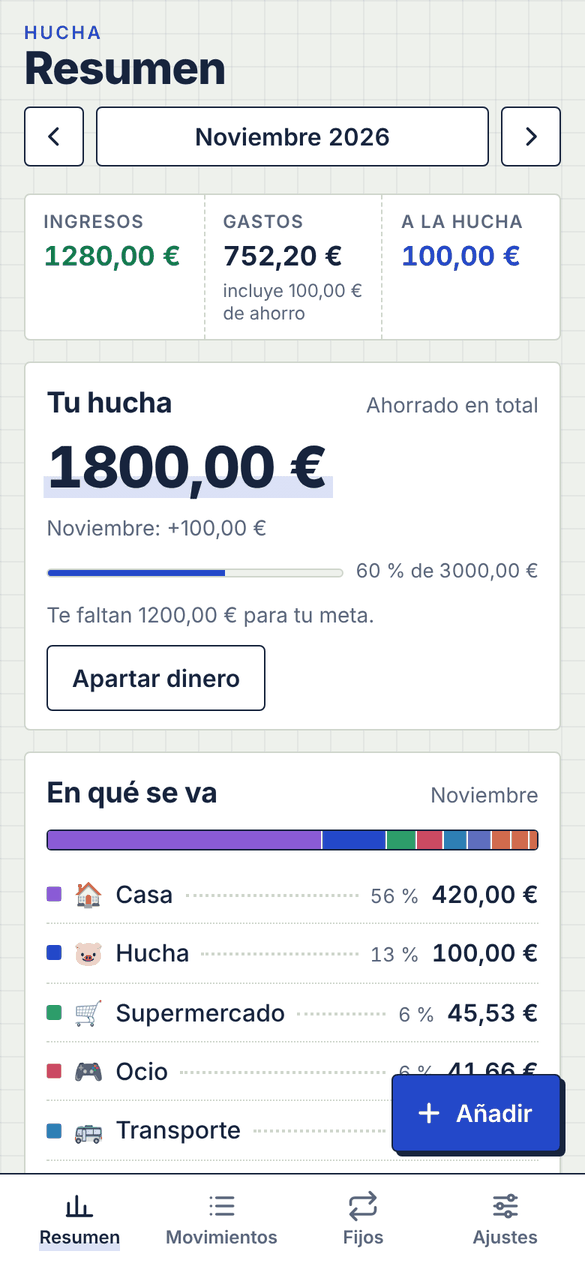
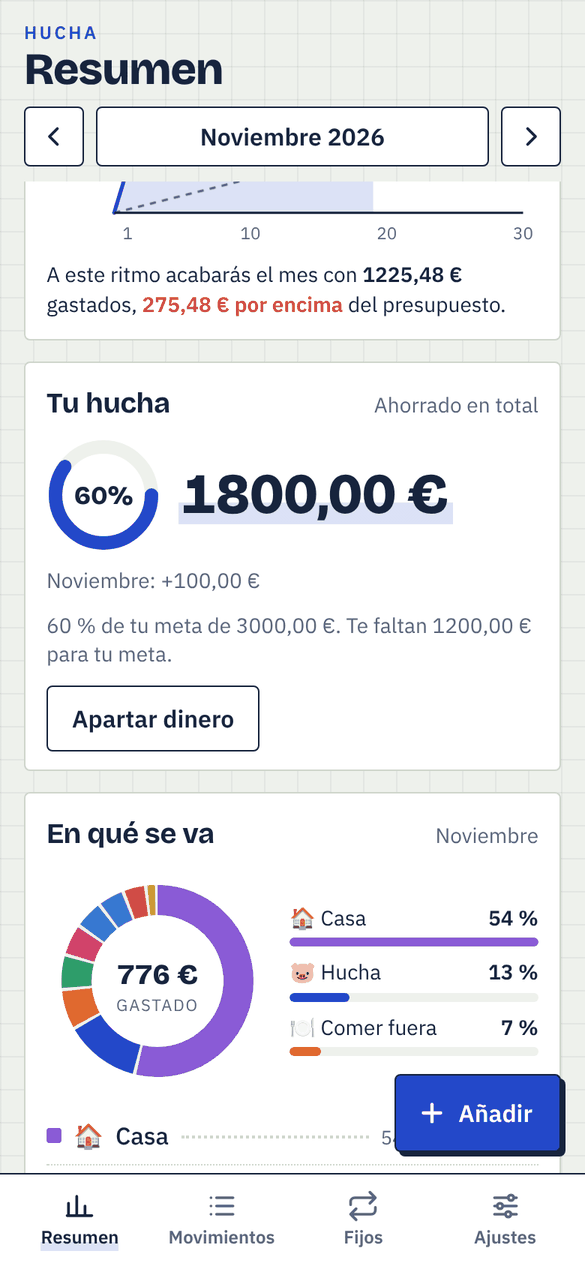
README: descarga para Android, gráficos nuevos y capturas con las fuentes reales
Claude-Session: https://claude.ai/code/session_01EqoCPkjg5r8F7tMW72F4wB

diff --git a/README.md b/README.md
@@ -8,12 +8,12 @@
 
 Gratis · Sin cuentas ni registros · Tus datos no salen de tu móvil · Funciona sin conexión
 
-### [👉 Abrir Hucha](https://jesuscg12.github.io/Hucha/)
+### [🤖 Descargar para Android (APK)](https://github.com/JesusCG12/Hucha/releases/latest/download/Hucha.apk) &nbsp;·&nbsp; [🍎 Abrir en iPhone o en el navegador](https://jesuscg12.github.io/Hucha/)
 
 <br>
 
 <img src="docs/capturas/resumen.png" alt="Pantalla de resumen" width="240">&nbsp;&nbsp;
-<img src="docs/capturas/movimientos.png" alt="Lista de movimientos" width="240">&nbsp;&nbsp;
+<img src="docs/capturas/graficos.png" alt="Gráfico del ritmo del mes" width="240">&nbsp;&nbsp;
 <img src="docs/capturas/resumen-oscuro.png" alt="Resumen en modo oscuro" width="240">
 
 </div>
@@ -29,27 +29,36 @@ Gratis · Sin cuentas ni registros · Tus datos no salen de tu móvil · Funcion
 | 🔁 **Gastos fijos y suscripciones** | Alquiler, Spotify, el coche, la nómina… Los apuntas una vez y se añaden solos cada mes el día que toca. Eliges si duran siempre o solo unos meses. |
 | 🔮 **Ver los próximos meses** | Los fijos que aún no han llegado salen como *previstos*, así sabes de antemano lo que te va a quedar. |
 | 🐷 **Hucha de ahorro** | Apartas dinero cuando quieras (o cada mes, como fijo) y ves cuánto llevas en total y lo que te falta para tu meta. Lo que apartas se resta de lo disponible. |
-| 📊 **Saber en qué se va** | Reparto por categorías, límites por categoría (te avisa si te pasas) y gráfico de los últimos seis meses. |
+| 📈 **Ritmo del mes** | Un gráfico con lo que llevas gastado día a día frente al ritmo ideal, y una previsión de cómo acabarás el mes si sigues así. |
+| 🍩 **Saber en qué se va** | Donut con el reparto por categorías, límites por categoría (te avisa si te pasas) y barras de los últimos seis meses. |
 | 🌙 **Modo oscuro** | Se pone solo si tu móvil lo usa. |
 
 ---
 
 ## 📲 Instalarla en el móvil
 
-Hucha es una web que se instala como una app: icono en la pantalla de inicio, pantalla completa y funciona sin conexión. No hace falta App Store.
+### 🤖 Android: app (APK)
 
-### iPhone
+1. Desde el móvil, descarga **[Hucha.apk](https://github.com/JesusCG12/Hucha/releases/latest/download/Hucha.apk)**.
+2. Ábrelo desde la notificación de descarga o desde **Archivos → Descargas**.
+3. Si Android te avisa de que no permite instalar apps de ese origen, pulsa **Ajustes**, activa **Permitir de esta fuente** y vuelve atrás.
+4. Pulsa **Instalar**. Si Play Protect dice que es una app desconocida, elige **Instalar de todas formas** (es normal en apps que no vienen de Google Play).
+
+Funciona sin conexión y no pide ningún permiso. Necesita Android 10 o posterior.
+
+> [!NOTE]
+> **Para actualizar**, descarga el APK nuevo con el mismo enlace e instálalo encima: tus datos se mantienen. Las versiones están en [Releases](https://github.com/JesusCG12/Hucha/releases).
+
+### 🍎 iPhone (y cualquier navegador)
+
+En iPhone, Hucha es una web que se instala como una app: icono en la pantalla de inicio, pantalla completa y funciona sin conexión. No hace falta App Store.
 
 1. Abre **[jesuscg12.github.io/Hucha](https://jesuscg12.github.io/Hucha/)** en **Safari**.
 2. Pulsa el botón **Compartir** (el cuadrado con la flecha hacia arriba).
 3. Baja y elige **Añadir a pantalla de inicio** → **Añadir**.
 4. Ábrela siempre desde el icono 🐷.
 
-### Android
-
-1. Abre **[jesuscg12.github.io/Hucha](https://jesuscg12.github.io/Hucha/)** en **Chrome**.
-2. Pulsa el menú **⋮** (arriba a la derecha).
-3. Elige **Instalar app** o **Añadir a pantalla de inicio**.
+¿Prefieres no instalar el APK en Android? También puedes abrir la web en **Chrome** y usar **⋮ → Instalar app**.
 
 > [!TIP]
 > También puedes usarla en el ordenador, en cualquier navegador. Pero ojo: cada dispositivo guarda sus propios datos (mira [Tus datos](#-tus-datos)).
@@ -75,7 +84,7 @@ Al abrirla por primera vez verás **datos de ejemplo** para que te hagas una ide
 
 ## 🧭 Las cuatro pestañas
 
-**📊 Resumen.** Lo **disponible** del mes en grande, con una barra que marca el día de hoy para saber si vas bien de ritmo. Debajo: ingresos, gastos (con el ahorro incluido) y lo que has apartado; tu hucha con el total y la meta; en qué categorías se te va el dinero; y el gráfico de seis meses. Con las flechas cambias de mes, también a meses futuros para ver lo que te quedará.
+**📊 Resumen.** Lo **disponible** del mes en grande, con una barra que marca el día de hoy para saber si vas bien de ritmo. Debajo: ingresos, gastos (con el ahorro incluido) y lo que has apartado; el **ritmo del mes** con la previsión de cómo acabarás; tu hucha con el anillo de la meta; el donut de categorías; y las barras de seis meses. Con las flechas cambias de mes, también a meses futuros para ver lo que te quedará.
 
 **🧾 Movimientos.** Todo lo apuntado en el mes, agrupado por días. Puedes filtrar por gastos, ingresos o ahorro. Toca uno para editarlo o borrarlo. Arriba aparecen los fijos **previstos** que aún no han llegado.
 
@@ -84,7 +93,9 @@ Al abrirla por primera vez verás **datos de ejemplo** para que te hagas una ide
 **⚙ Ajustes.** Presupuesto, hucha de ahorro, categorías (con su emoji, color y límite mensual), copia de seguridad y borrar todo.
 
 <div align="center">
-<img src="docs/capturas/hucha.png" alt="Tu hucha de ahorro" width="240">
+<img src="docs/capturas/categorias.png" alt="Donut de categorías" width="240">&nbsp;&nbsp;
+<img src="docs/capturas/hucha.png" alt="Tu hucha de ahorro" width="240">&nbsp;&nbsp;
+<img src="docs/capturas/movimientos.png" alt="Lista de movimientos" width="240">
 </div>
 
 ---
@@ -96,7 +107,7 @@ Al abrirla por primera vez verás **datos de ejemplo** para que te hagas una ide
 - Si borras la app o los datos de Safari/Chrome, se borra lo que tenías. Por eso:
 
 > [!IMPORTANT]
-> Haz una copia de vez en cuando en **Ajustes → Exportar copia**. Se guarda un archivo `.json` con todo. Con **Importar copia** lo recuperas, o lo pasas a otro móvil.
+> Haz una copia de vez en cuando en **Ajustes → Exportar copia**. Se guarda un archivo `.json` con todo (en Android, en **Descargas/Hucha**). Con **Importar copia** lo recuperas, o lo pasas a otro móvil.
 
 ---
 
@@ -142,14 +153,19 @@ Porque no le hace falta: es una web instalable (PWA). Se instala desde el navega
 
 ## 🛠 Para curiosos
 
-Hucha es una sola página web (`index.html`) con HTML, CSS y JavaScript, sin librerías ni servidor. Los datos se guardan con `localStorage` y el `sw.js` (service worker) permite usarla sin conexión.
+Hucha es una sola página web (`index.html`) con HTML, CSS y JavaScript, sin librerías ni servidor; los gráficos son SVG dibujados a mano. Los datos se guardan con `localStorage` y el `sw.js` (service worker) permite usarla sin conexión.
+
+La app de Android es un `WebView` que lleva dentro esa misma página y sus fuentes. Cada vez que cambia `index.html`, **GitHub Actions** compila el APK, lo firma y lo publica en Releases.
 
 ```
-├── index.html            ← la app entera
-├── sw.js                 ← modo sin conexión
-├── manifest.webmanifest  ← nombre, icono y colores al instalarla
-├── icons/                ← iconos de la app
-└── docs/capturas/        ← imágenes de este README
+├── index.html                      ← la app entera
+├── sw.js                           ← modo sin conexión (web)
+├── manifest.webmanifest            ← nombre, icono y colores al instalarla (web)
+├── icons/                          ← iconos de la app
+├── android/                        ← proyecto Android (Gradle + Java)
+├── tools/android_assets.py         ← prepara index.html y las fuentes para el APK
+├── .github/workflows/android.yml   ← compila y publica Hucha.apk
+└── docs/capturas/                  ← imágenes de este README
 ```
 
 ¿Quieres tu propia copia? Haz un **fork** de este repositorio y activa **Settings → Pages → Deploy from a branch → main / (root)**. En un par de minutos tendrás tu Hucha en `https://TU_USUARIO.github.io/Hucha/`.
